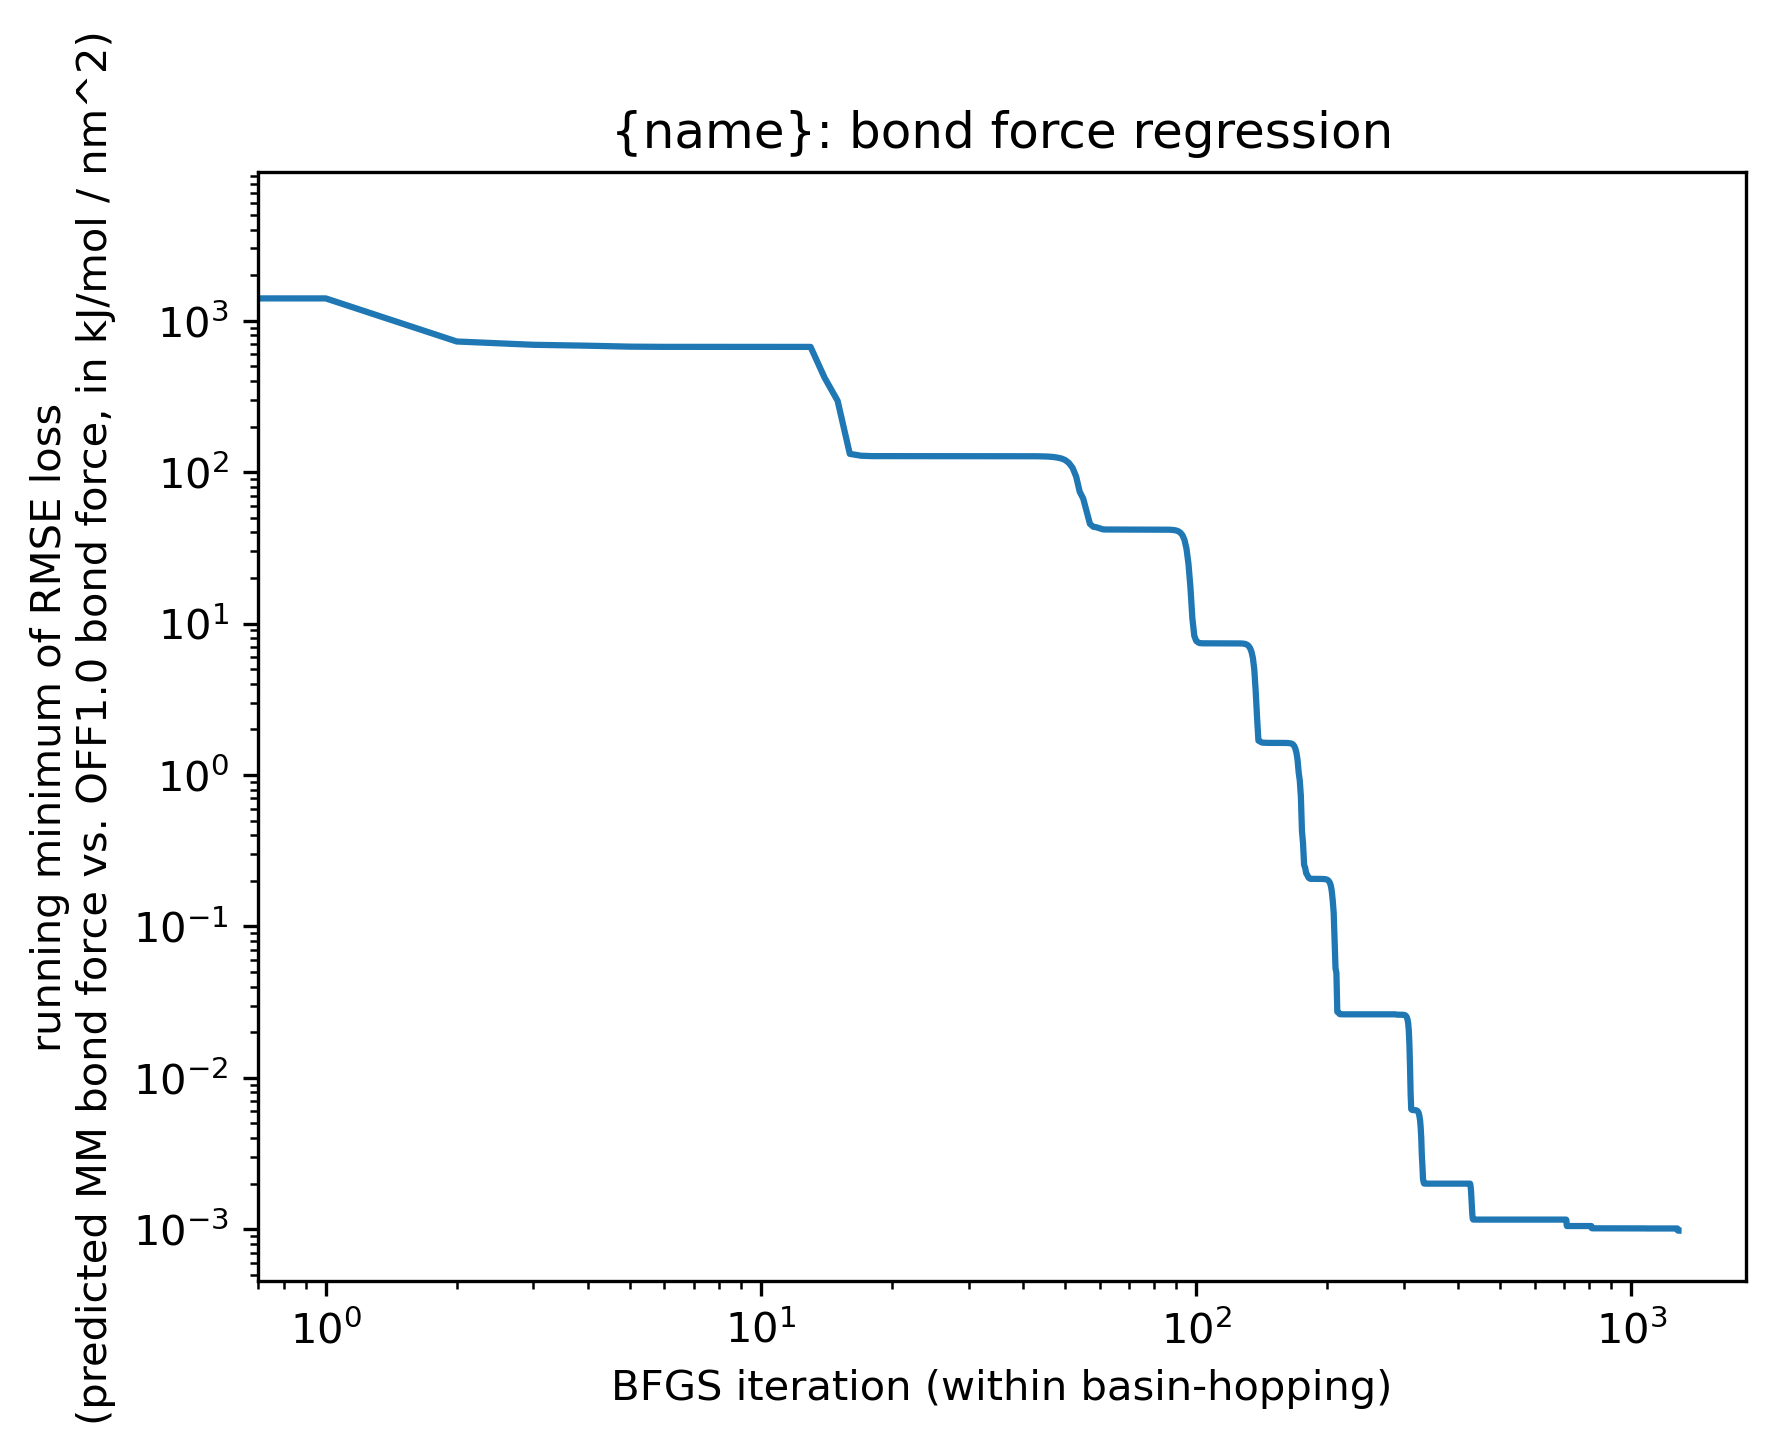
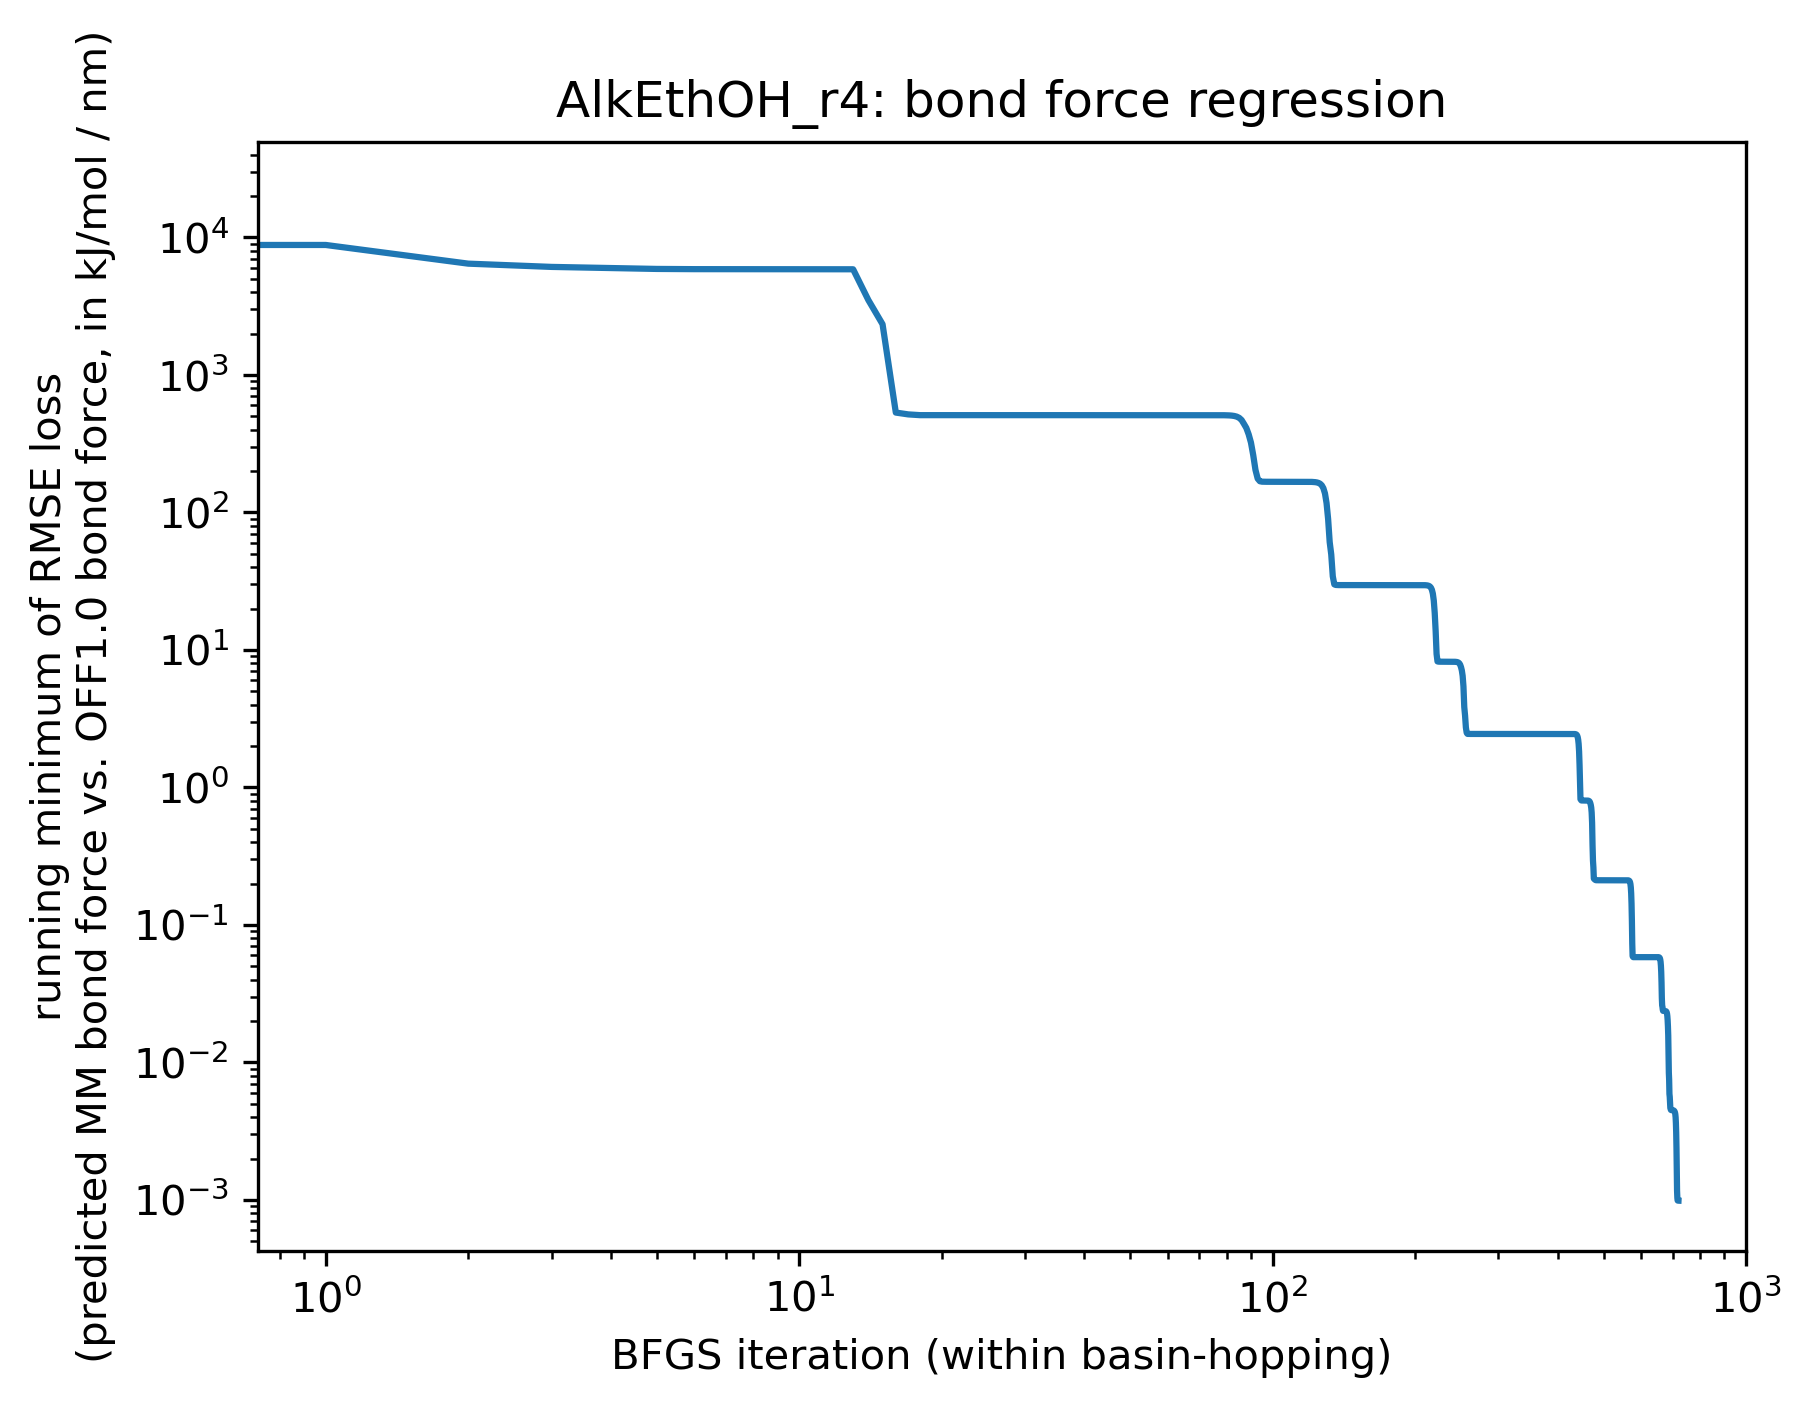
add fit_angles_to_forces.py
also, adjust so that it's randomly initialized between 0 and 2 * true value

diff --git a/scripts/independent_params/fit_angles_to_forces.py b/scripts/independent_params/fit_angles_to_forces.py
@@ -1,4 +1,4 @@
-# separate parameters for every atom, bond, angle, torsion, up to symmetry
+# separate parameters for every atom, angle, angle, torsion, up to symmetry
 
 from time import time
 
@@ -18,65 +18,59 @@ from simtk import unit
 from espaloma.data.alkethoh.ani import get_snapshots_energies_and_forces
 from espaloma.data.alkethoh.data import offmols
 from espaloma.mm.mm_utils import get_force_targets, MMComponents
-from espaloma.mm.mm_utils import get_sim, compute_harmonic_bond_potential
-from espaloma.utils.symmetry import get_unique_bonds, canonicalize_order
+from espaloma.mm.mm_utils import get_sim, compute_harmonic_angle_potential
+from espaloma.utils.symmetry import get_unique_angles, canonicalize_order
 onp.random.seed(1234)
 
 # TODO: add coupling terms
-# TODO: toggle between `compute_harmonic_bond_potential` and alternate parameterization
+# TODO: toggle between `compute_harmonic_angle_potential` and alternate parameterization
 
 # TODO: initializer classes
 #   initialize at mean values vs. at openff values
 
-def initialize_bonds(offmol, noise_magnitude=1.0):
-    # bonds
-    pair_inds, bond_inds = get_unique_bonds(offmol)
-    n_unique_bonds = len(set(bond_inds))
-    n_bond_params = 2 * n_unique_bonds
-    bond_params = onp.zeros(n_bond_params)
+def initialize_angles(offmol, noise_magnitude=1.0):
+    triple_inds, angle_inds = get_unique_angles(offmol)
+    n_unique_angles = len(set(angle_inds))
+    n_angle_params = 2 * n_unique_angles
+    angle_params = onp.zeros(n_angle_params)
 
     sim = get_sim(name)
 
-    # compare pair inds from harmonic_bond_force and autodiff'd one
-    harmonic_bond_force = [f for f in sim.system.getForces() if ("HarmonicBond" in f.__class__.__name__)][0]
-    omm_pair_inds = []
-    omm_bond_params = dict()
+    harmonic_angle_force = [f for f in sim.system.getForces() if ("HarmonicAngle" in f.__class__.__name__)][0]
+    omm_angle_params = dict()
 
-    for i in range(harmonic_bond_force.getNumBonds()):
-        a, b, length, k = harmonic_bond_force.getBondParameters(i)
-        tup = canonicalize_order((a, b))
-        omm_bond_params[tup] = (length, k)
-        omm_pair_inds.append(tup)
+    for i in range(harmonic_angle_force.getNumAngles()):
+        a, b, c, theta, k = harmonic_angle_force.getAngleParameters(i)
+        tup = canonicalize_order((a, b, c))
+        omm_angle_params[tup] = (theta, k)
 
-    # assert that I'm defining bonds on the same pairs of atoms
-    assert ((set(omm_pair_inds) == set([tuple(p) for p in pair_inds])))
+    for i in range(len(triple_inds)):
+        theta, k = omm_angle_params[tuple(triple_inds[i])]
+        theta_, k_ = theta / unit.radian, k / (unit.kilojoule_per_mole / (unit.radian ** 2))
 
-    # What if I initialize with MM parameters
-    for i in range(len(pair_inds)):
-        length, k = omm_bond_params[tuple(pair_inds[i])]
-        length_, k_ = length / unit.nanometer, k / (unit.kilojoule_per_mole / (unit.nanometer ** 2))
         multiplicative_noise = 2 * noise_magnitude * (
-                    onp.random.rand(2) - 0.5) + 1.0  # uniform between [1-noise_magnitude, 1+noise_magnitude]
-        bond_params[bond_inds[i]] = k_ * multiplicative_noise[0]
-        bond_params[bond_inds[i] + n_unique_bonds] = length_ * multiplicative_noise[1]
+                onp.random.rand(2) - 0.5) + 1.0  # uniform between [1-noise_magnitude, 1+noise_magnitude]
+
+        angle_params[angle_inds[i]] = k_ * multiplicative_noise[0]
+        angle_params[angle_inds[i] + n_unique_angles] = theta_ * multiplicative_noise[1]
 
     def unpack(params):
-        return (params, [], [])
+        return ([], params, [])
 
-    return bond_params, unpack
+    return angle_params, unpack
 
 
 if __name__ == '__main__':
     # look at a single molecule first
     name = 'AlkEthOH_r4'
     offmol = offmols[name]
-    # params, unpack = initialize_off_params(offmol)
-    params, unpack = initialize_bonds(offmol, noise_magnitude=1.0)
-    pair_inds, bond_inds = get_unique_bonds(offmol)
+
+    params, unpack = initialize_angles(offmol)
+    triple_inds, angle_inds = get_unique_angles(offmol)
 
     # targets
-    mm_components, ani1ccx_forces = get_force_targets(name, MMComponents(bonds=True))
-    target = mm_components.bonds
+    mm_components, ani1ccx_forces = get_force_targets(name, MMComponents(angles=True))
+    target = mm_components.angles
 
     # trajectory
     traj, _, _ = get_snapshots_energies_and_forces(name)
@@ -84,16 +78,16 @@ if __name__ == '__main__':
 
 
     @jit
-    def compute_harmonic_bond_force(xyz, bond_params, pair_inds, bond_inds):
-        total_U = lambda xyz: np.sum(compute_harmonic_bond_potential(xyz, bond_params, pair_inds, bond_inds))
+    def compute_harmonic_angle_force(xyz, angle_params, triple_inds, angle_inds):
+        total_U = lambda xyz: np.sum(compute_harmonic_angle_potential(xyz, angle_params, triple_inds, angle_inds))
         return - grad(total_U)(xyz)
 
 
     @jit
     def predict(all_params):
-        bond_params, angle_params, torsion_params = unpack(all_params)
-        F_bond = compute_harmonic_bond_force(xyz, bond_params, pair_inds, bond_inds)
-        return F_bond
+        angle_params, angle_params, torsion_params = unpack(all_params)
+        F_angle = compute_harmonic_angle_force(xyz, angle_params, triple_inds, angle_inds)
+        return F_angle
 
 
     def stddev_loss(predicted, actual):
@@ -161,7 +155,7 @@ if __name__ == '__main__':
                               minimizer_kwargs=dict(method=method, jac=jac, callback=callback, options=min_options),
                               callback=bh_callback)
 
-    plot_residuals(predict(opt_result.x), target, name, 'bond')
+    plot_residuals(predict(opt_result.x), target, name, 'angle')
 
     loss_traj = [fun(theta) for theta in traj]
     running_min_loss_traj = onp.minimum.accumulate(loss_traj)
@@ -169,7 +163,7 @@ if __name__ == '__main__':
     plt.xscale('log')
     plt.yscale('log')
     plt.xlabel(f'{method} iteration (within basin-hopping)')
-    plt.ylabel('running minimum of RMSE loss\n(predicted MM bond force vs. OFF1.0 bond force, in kJ/mol / nm)')
-    plt.title(f'{name}: bond force regression')
-    plt.savefig(f'plots/{name}_bond_loss_traj.png', bbox_inches='tight', dpi=300)
+    plt.ylabel('running minimum of RMSE loss\n(predicted MM angle force vs. OFF1.0 angle force, in kJ/mol / nm)')
+    plt.title(f'{name}: angle force regression')
+    plt.savefig(f'plots/{name}_angle_loss_traj.png', bbox_inches='tight', dpi=300)
     plt.close()

diff --git a/espaloma/mm/mm_utils.py b/espaloma/mm/mm_utils.py
@@ -172,7 +172,7 @@ def compute_harmonic_angle_potential(xyz, params, triple_inds, angle_inds):
     ks, theta0s = params[:n_unique], params[n_unique:]
     # Jax: FutureWarning: Using a non-tuple sequence for multidimensional indexing is deprecated; use `arr[tuple(seq)]` instead of `arr[seq]`. In the future this will be interpreted as an array index, `arr[np.array(seq)]`, which will result either in an error or a different result.
     #angle_inds = tuple(angle_inds)
-    angle_inds = onp.array(angle_inds)
+    angle_inds = np.array(angle_inds)
     #print(ks)
     #print(angle_inds)
 
@@ -343,3 +343,81 @@ def get_valence_energy(sim):
 
 def get_valence_force(sim):
     return get_force(sim) - get_nb_force(sim)
+
+
+
+from collections import namedtuple
+
+MMComponents = namedtuple('MMComponents',
+                          field_names=['bonds', 'angles', 'torsions', 'valence', 'nonbonded', 'total'],
+                          defaults=[False, False, False, False, False, False])
+default_components = MMComponents()
+
+get_mm_energies = dict(bonds=get_bond_energy, angles=get_angle_energy, torsions=get_torsion_energy,
+                       valence=get_valence_energy, nonbonded=get_nb_energy, total=get_energy)
+get_mm_forces = dict(bonds=get_bond_force, angles=get_angle_force, torsions=get_torsion_force,
+                     valence=get_valence_force, nonbonded=get_nb_force, total=get_force)
+
+
+from espaloma.data.alkethoh.ani import  get_snapshots_energies_and_forces
+
+def get_energy_targets(name, components=default_components):
+    """
+
+    :param name:
+    :param components:
+    :return:
+    """
+    traj, ani1ccx_energies, _ = get_snapshots_energies_and_forces(name)
+    xyz = traj.xyz
+    sim = get_sim(name)
+
+    # Define energy targets
+    component_names = [component for component in components._fields if components.__getattribute__(component)]
+
+    # initialize energies_dict
+    energies = dict(zip(component_names, [list() for _ in component_names]))
+    for component in components._fields:
+        if not components.__getattribute__(component):
+            energies[component] = None
+
+    # fill in energies
+    for conf in xyz:
+        set_positions(sim, conf * unit.nanometer)
+        for component in component_names:
+            energies[component].append(get_mm_energies[component](sim))
+    # convert from list of floats to np array
+    for component in component_names:
+        energies[component] = np.array(energies[component])
+
+    # return named tuple
+    mm_components = MMComponents(**energies)
+    return mm_components, ani1ccx_energies
+
+
+def get_force_targets(name, components=default_components):
+    traj, _, ani1ccx_forces = get_snapshots_energies_and_forces(name)
+    xyz = traj.xyz
+    sim = get_sim(name)
+
+    # Define force targets
+    component_names = [component for component in components._fields if components.__getattribute__(component)]
+
+    # initialize forces_dict
+    forces = dict(zip(component_names, [list() for _ in component_names]))
+    for component in components._fields:
+        if not components.__getattribute__(component):
+            forces[component] = None
+
+    # fill in forces
+    for conf in xyz:
+        set_positions(sim, conf * unit.nanometer)
+        for component in component_names:
+            forces[component].append(get_mm_forces[component](sim))
+    # convert from list of arrays to single array
+    for component in component_names:
+        forces[component] = np.array(forces[component])
+
+    # return named tuple
+    mm_components = MMComponents(**forces)
+    return mm_components, ani1ccx_forces

diff --git a/scripts/independent_params/plots.py b/scripts/independent_params/plots.py
@@ -1,0 +1,23 @@
+from matplotlib import pyplot as plt
+
+
+def plot_residuals(predicted, target, mol_name, target_name):
+    scatter_kwargs = dict(s=1, alpha=0.5)
+
+    plt.figure(figsize=(8, 4))
+    plt.subplot(1, 2, 1)
+    plt.scatter(predicted, target, **scatter_kwargs)
+    unit = '(kJ/mol / nm)'
+    plt.xlabel(f'predicted {unit}')
+    plt.ylabel(f'target {unit}')
+    plt.title(f'{mol_name}: {target_name} force')
+
+    plt.subplot(1, 2, 2)
+    plt.scatter(predicted, predicted - target, **scatter_kwargs)
+    plt.xlabel(f'predicted {unit}')
+    plt.ylabel(f'predicted - target {unit}')
+    plt.title(f'{mol_name}: {target_name} force residuals')
+    plt.tight_layout()
+
+    plt.savefig(f'plots/{mol_name}_{target_name}_residuals.png', bbox_inches='tight', dpi=300)
+    plt.close()

diff --git a/espaloma/utils/jax.py b/espaloma/utils/jax.py
@@ -1,0 +1,16 @@
+import numpy as onp
+from jax import grad
+
+
+def jax_play_nice_with_scipy(jax_loss_fxn):
+    """Defining functions that can talk to scipy optimizers"""
+
+    def fun(params):
+        return float(jax_loss_fxn(params))  # make sure return type is a plain old float)
+
+    g = grad(jax_loss_fxn)
+
+    def jac(params):
+        return onp.array(g(params), dtype=onp.float64)  # make sure return type is a float64 array
+
+    return fun, jac

diff --git a/scripts/independent_params/readme.md b/scripts/independent_params/readme.md
@@ -1,2 +1,8 @@
 Fitting to energies / forces without any constraints that parameters are shared across molecules.
 
+Contents:
+* fit_bonds_to_forces.py -- 
+* fit_angles_to_forces.py
+* plots/
+    * loss vs. iteration trajectory plots
+    * pred vs. target, and pred vs. (target - pred) scatter plots
